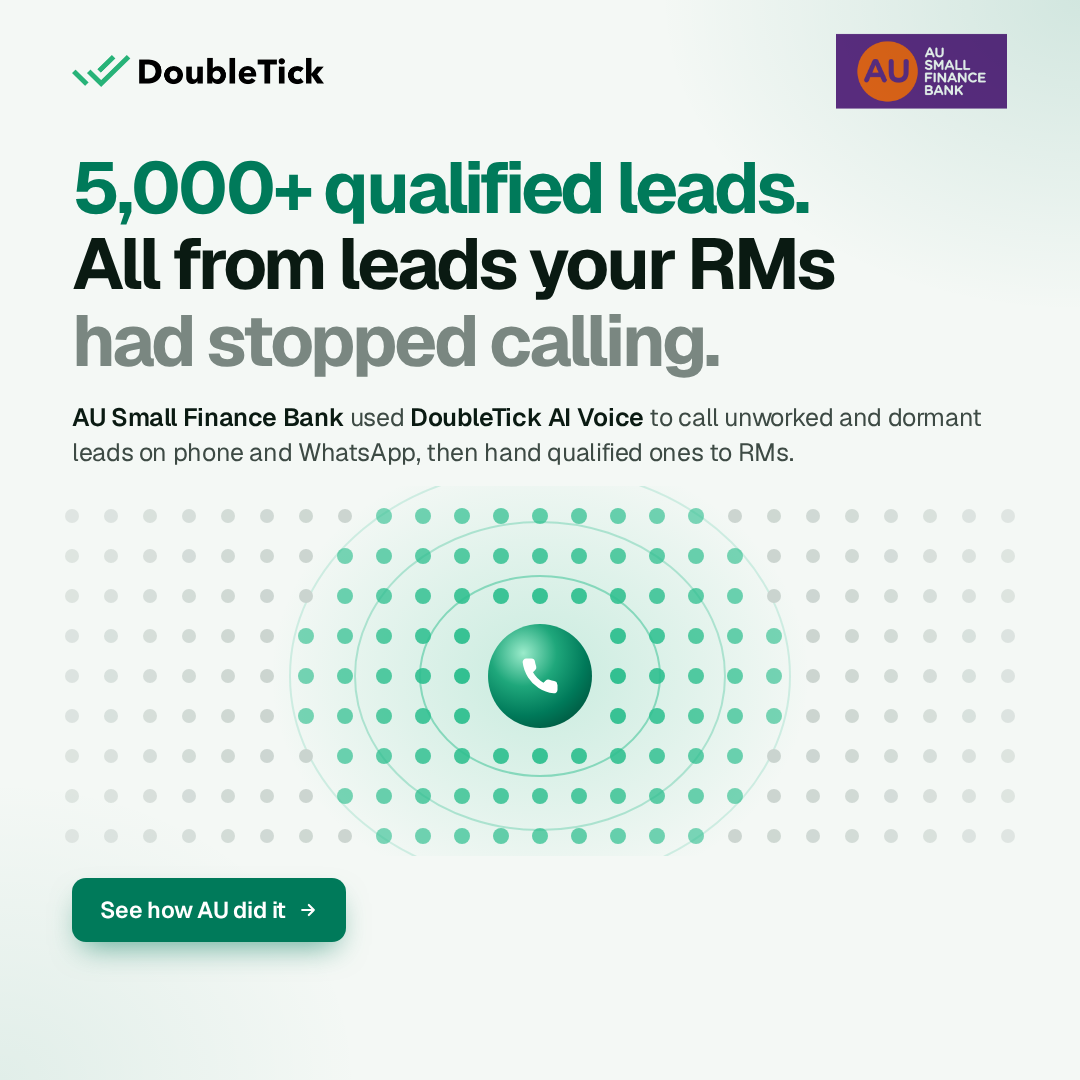
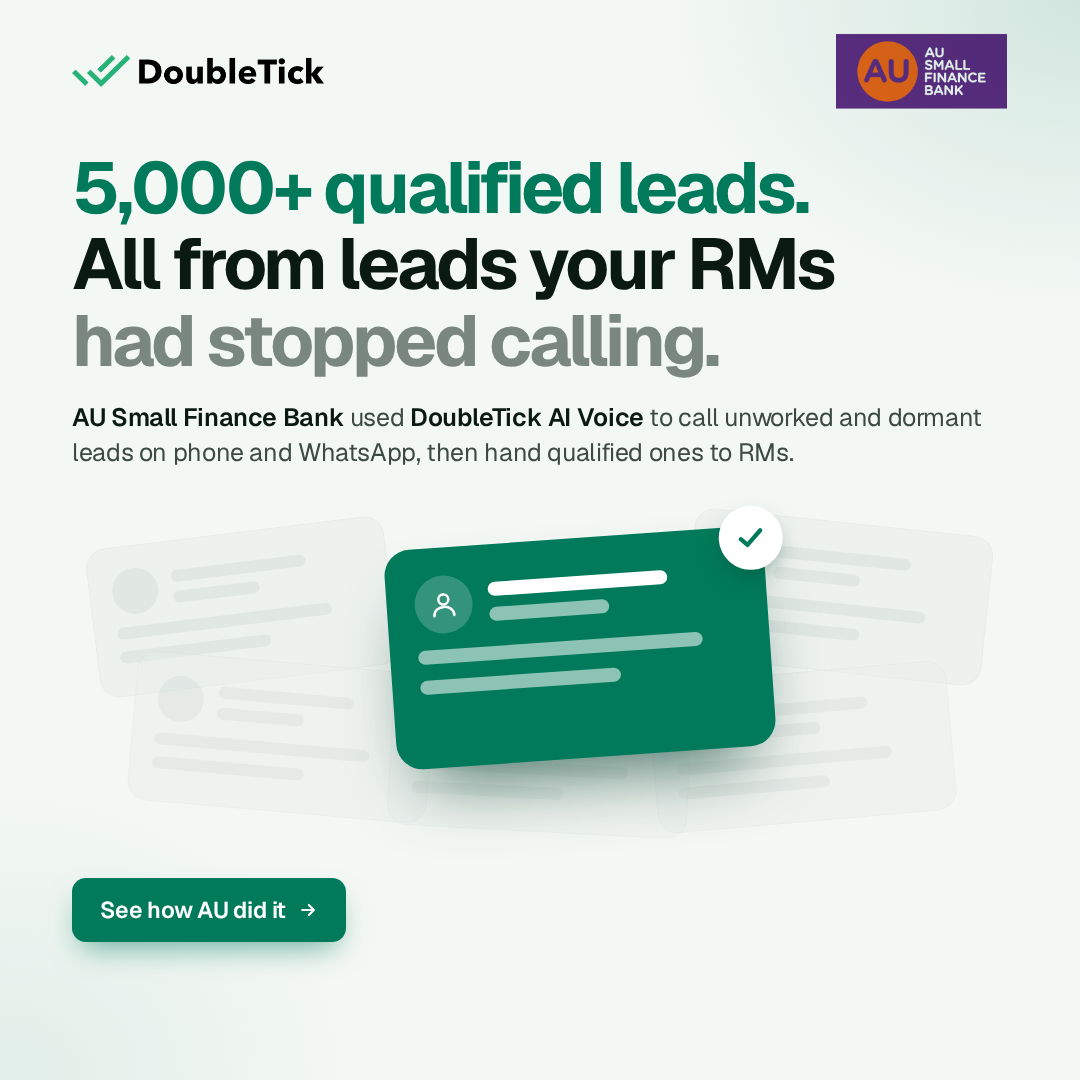
feat: lifted-card abstract visual for AU ad
Claude-Session: https://claude.ai/code/session_013Hi5o4KgvuLbKTeGkStAKX

diff --git a/ads/doubletick-case-au-v6/index.html b/ads/doubletick-case-au-v6/index.html
@@ -20,9 +20,19 @@
   .sub { left: 72px; right: 72px; top: 400px; font-size: 25px; line-height: 1.38; color: var(--ink-2); letter-spacing: -0.015em; }
   .sub b { color: var(--ink); font-weight: 600; }
 
-  /* visual: abstract sonar — AI Voice reaches dormant leads, the ones it reaches light up */
-  .vis { left: 0; top: 486px; width: 1080px; height: 370px; }
-  .vis svg { width: 1080px; height: 370px; display: block; }
+  /* visual: archive of written-off lead cards, one lifted out and turned green */
+  .vis { left: 72px; top: 492px; width: 936px; height: 360px; }
+  .vis > * { position: absolute; }
+  .gc { width: 300px; height: 150px; border-radius: 20px; background: #E9EEEB; border: 1px solid #DCE3DF; padding: 22px; display: flex; flex-direction: column; gap: 12px; }
+  .gc i { display: block; height: 12px; border-radius: 6px; background: #D3DBD7; }
+  .gc .a { width: 46px; height: 46px; border-radius: 50%; background: #D3DBD7; }
+  .hero { left: 318px; top: 46px; width: 380px; height: 220px; border-radius: 26px; background: var(--green); padding: 28px; display: flex; flex-direction: column; gap: 16px;
+    transform: rotate(-4deg); box-shadow: 0 40px 70px -30px rgba(0,60,43,.75); }
+  .hero .r { display: flex; align-items: center; gap: 16px; }
+  .hero .a { width: 58px; height: 58px; border-radius: 50%; background: rgba(255,255,255,.2); display: grid; place-items: center; }
+  .hero i { display: block; height: 14px; border-radius: 7px; background: rgba(255,255,255,.55); }
+  .hero .ok { position: absolute; right: -20px; top: -20px; width: 64px; height: 64px; border-radius: 50%; background: #fff; display: grid; place-items: center;
+    box-shadow: 0 10px 24px -8px rgba(0,60,43,.5); }
   .cta { left: 72px; top: 878px; display: flex; align-items: center; gap: 18px; }
   .btn { background: var(--green); color: #fff; font-size: 23px; font-weight: 600; letter-spacing: -0.01em; padding: 17px 28px; border-radius: 14px;
     display: flex; align-items: center; gap: 12px; box-shadow: 0 14px 30px -10px rgba(0,122,90,.6); }
@@ -35,17 +45,12 @@
   <p class="sub"><b>AU Small Finance Bank</b> used <b>DoubleTick AI Voice</b> to call unworked and dormant leads on phone and WhatsApp, then hand qualified ones to RMs.</p>
 
   <div class="vis">
-    <svg viewBox="0 0 1080 370">
-      <defs>
-        <radialGradient id="og" cx="34%" cy="28%" r="80%"><stop offset="0" stop-color="#9BEBCB"/><stop offset=".4" stop-color="#1FA77B"/><stop offset=".75" stop-color="#007A5A"/><stop offset="1" stop-color="#005A42"/></radialGradient>
-        <radialGradient id="hl"><stop offset="0" stop-color="#2FBF8F" stop-opacity=".22"/><stop offset="1" stop-color="#2FBF8F" stop-opacity="0"/></radialGradient>
-      </defs>
-      <ellipse cx="540" cy="190" rx="270" ry="225" fill="url(#hl)"/>
-      <ellipse cx="540" cy="190" rx="120" ry="100" fill="none" stroke="#2FBF8F" stroke-width="2" opacity="0.5"/><ellipse cx="540" cy="190" rx="185" ry="154" fill="none" stroke="#2FBF8F" stroke-width="2" opacity="0.32"/><ellipse cx="540" cy="190" rx="250" ry="208" fill="none" stroke="#2FBF8F" stroke-width="2" opacity="0.18"/>
-      <circle cx="72" cy="30" r="7" fill="#C9D3CE" opacity="0.49"/><circle cx="111" cy="30" r="7" fill="#C9D3CE" opacity="0.56"/><circle cx="150" cy="30" r="7" fill="#C9D3CE" opacity="0.63"/><circle cx="189" cy="30" r="7" fill="#C9D3CE" opacity="0.70"/><circle cx="228" cy="30" r="7" fill="#C9D3CE" opacity="0.77"/><circle cx="267" cy="30" r="7" fill="#C9D3CE" opacity="0.83"/><circle cx="306" cy="30" r="7" fill="#C9D3CE" opacity="0.89"/><circle cx="345" cy="30" r="7" fill="#C9D3CE" opacity="0.95"/><circle cx="384" cy="30" r="8" fill="#2FBF8F" opacity="0.62"/><circle cx="423" cy="30" r="8" fill="#2FBF8F" opacity="0.67"/><circle cx="462" cy="30" r="8" fill="#2FBF8F" opacity="0.71"/><circle cx="501" cy="30" r="8" fill="#2FBF8F" opacity="0.73"/><circle cx="540" cy="30" r="8" fill="#2FBF8F" opacity="0.74"/><circle cx="579" cy="30" r="8" fill="#2FBF8F" opacity="0.73"/><circle cx="618" cy="30" r="8" fill="#2FBF8F" opacity="0.71"/><circle cx="657" cy="30" r="8" fill="#2FBF8F" opacity="0.67"/><circle cx="696" cy="30" r="8" fill="#2FBF8F" opacity="0.62"/><circle cx="735" cy="30" r="7" fill="#C9D3CE" opacity="0.95"/><circle cx="774" cy="30" r="7" fill="#C9D3CE" opacity="0.89"/><circle cx="813" cy="30" r="7" fill="#C9D3CE" opacity="0.83"/><circle cx="852" cy="30" r="7" fill="#C9D3CE" opacity="0.77"/><circle cx="891" cy="30" r="7" fill="#C9D3CE" opacity="0.70"/><circle cx="930" cy="30" r="7" fill="#C9D3CE" opacity="0.63"/><circle cx="969" cy="30" r="7" fill="#C9D3CE" opacity="0.56"/><circle cx="1008" cy="30" r="7" fill="#C9D3CE" opacity="0.49"/><circle cx="72" cy="70" r="7" fill="#C9D3CE" opacity="0.52"/><circle cx="111" cy="70" r="7" fill="#C9D3CE" opacity="0.59"/><circle cx="150" cy="70" r="7" fill="#C9D3CE" opacity="0.67"/><circle cx="189" cy="70" r="7" fill="#C9D3CE" opacity="0.74"/><circle cx="228" cy="70" r="7" fill="#C9D3CE" opacity="0.81"/><circle cx="267" cy="70" r="7" fill="#C9D3CE" opacity="0.88"/><circle cx="306" cy="70" r="7" fill="#C9D3CE" opacity="0.95"/><circle cx="345" cy="70" r="8" fill="#2FBF8F" opacity="0.64"/><circle cx="384" cy="70" r="8" fill="#2FBF8F" opacity="0.70"/><circle cx="423" cy="70" r="8" fill="#2FBF8F" opacity="0.76"/><circle cx="462" cy="70" r="8" fill="#2FBF8F" opacity="0.80"/><circle cx="501" cy="70" r="8" fill="#2FBF8F" opacity="0.83"/><circle cx="540" cy="70" r="8" fill="#2FBF8F" opacity="0.84"/><circle cx="579" cy="70" r="8" fill="#2FBF8F" opacity="0.83"/><circle cx="618" cy="70" r="8" fill="#2FBF8F" opacity="0.80"/><circle cx="657" cy="70" r="8" fill="#2FBF8F" opacity="0.76"/><circle cx="696" cy="70" r="8" fill="#2FBF8F" opacity="0.70"/><circle cx="735" cy="70" r="8" fill="#2FBF8F" opacity="0.64"/><circle cx="774" cy="70" r="7" fill="#C9D3CE" opacity="0.95"/><circle cx="813" cy="70" r="7" fill="#C9D3CE" opacity="0.88"/><circle cx="852" cy="70" r="7" fill="#C9D3CE" opacity="0.81"/><circle cx="891" cy="70" r="7" fill="#C9D3CE" opacity="0.74"/><circle cx="930" cy="70" r="7" fill="#C9D3CE" opacity="0.67"/><circle cx="969" cy="70" r="7" fill="#C9D3CE" opacity="0.59"/><circle cx="1008" cy="70" r="7" fill="#C9D3CE" opacity="0.52"/><circle cx="72" cy="110" r="7" fill="#C9D3CE" opacity="0.54"/><circle cx="111" cy="110" r="7" fill="#C9D3CE" opacity="0.62"/><circle cx="150" cy="110" r="7" fill="#C9D3CE" opacity="0.70"/><circle cx="189" cy="110" r="7" fill="#C9D3CE" opacity="0.77"/><circle cx="228" cy="110" r="7" fill="#C9D3CE" opacity="0.85"/><circle cx="267" cy="110" r="7" fill="#C9D3CE" opacity="0.92"/><circle cx="306" cy="110" r="7" fill="#C9D3CE" opacity="0.99"/><circle cx="345" cy="110" r="8" fill="#2FBF8F" opacity="0.69"/><circle cx="384" cy="110" r="8" fill="#2FBF8F" opacity="0.76"/><circle cx="423" cy="110" r="8" fill="#2FBF8F" opacity="0.83"/><circle cx="462" cy="110" r="8" fill="#2FBF8F" opacity="0.89"/><circle cx="501" cy="110" r="8" fill="#2FBF8F" opacity="0.93"/><circle cx="540" cy="110" r="8" fill="#2FBF8F" opacity="0.95"/><circle cx="579" cy="110" r="8" fill="#2FBF8F" opacity="0.93"/><circle cx="618" cy="110" r="8" fill="#2FBF8F" opacity="0.89"/><circle cx="657" cy="110" r="8" fill="#2FBF8F" opacity="0.83"/><circle cx="696" cy="110" r="8" fill="#2FBF8F" opacity="0.76"/><circle cx="735" cy="110" r="8" fill="#2FBF8F" opacity="0.69"/><circle cx="774" cy="110" r="7" fill="#C9D3CE" opacity="0.99"/><circle cx="813" cy="110" r="7" fill="#C9D3CE" opacity="0.92"/><circle cx="852" cy="110" r="7" fill="#C9D3CE" opacity="0.85"/><circle cx="891" cy="110" r="7" fill="#C9D3CE" opacity="0.77"/><circle cx="930" cy="110" r="7" fill="#C9D3CE" opacity="0.70"/><circle cx="969" cy="110" r="7" fill="#C9D3CE" opacity="0.62"/><circle cx="1008" cy="110" r="7" fill="#C9D3CE" opacity="0.54"/><circle cx="72" cy="150" r="7" fill="#C9D3CE" opacity="0.56"/><circle cx="111" cy="150" r="7" fill="#C9D3CE" opacity="0.64"/><circle cx="150" cy="150" r="7" fill="#C9D3CE" opacity="0.71"/><circle cx="189" cy="150" r="7" fill="#C9D3CE" opacity="0.79"/><circle cx="228" cy="150" r="7" fill="#C9D3CE" opacity="0.87"/><circle cx="267" cy="150" r="7" fill="#C9D3CE" opacity="0.95"/><circle cx="306" cy="150" r="8" fill="#2FBF8F" opacity="0.64"/><circle cx="345" cy="150" r="8" fill="#2FBF8F" opacity="0.72"/><circle cx="384" cy="150" r="8" fill="#2FBF8F" opacity="0.80"/><circle cx="423" cy="150" r="8" fill="#2FBF8F" opacity="0.88"/><circle cx="462" cy="150" r="8" fill="#2FBF8F" opacity="0.95"/><circle cx="618" cy="150" r="8" fill="#2FBF8F" opacity="0.95"/><circle cx="657" cy="150" r="8" fill="#2FBF8F" opacity="0.88"/><circle cx="696" cy="150" r="8" fill="#2FBF8F" opacity="0.80"/><circle cx="735" cy="150" r="8" fill="#2FBF8F" opacity="0.72"/><circle cx="774" cy="150" r="8" fill="#2FBF8F" opacity="0.64"/><circle cx="813" cy="150" r="7" fill="#C9D3CE" opacity="0.95"/><circle cx="852" cy="150" r="7" fill="#C9D3CE" opacity="0.87"/><circle cx="891" cy="150" r="7" fill="#C9D3CE" opacity="0.79"/><circle cx="930" cy="150" r="7" fill="#C9D3CE" opacity="0.71"/><circle cx="969" cy="150" r="7" fill="#C9D3CE" opacity="0.64"/><circle cx="1008" cy="150" r="7" fill="#C9D3CE" opacity="0.56"/><circle cx="72" cy="190" r="7" fill="#C9D3CE" opacity="0.56"/><circle cx="111" cy="190" r="7" fill="#C9D3CE" opacity="0.64"/><circle cx="150" cy="190" r="7" fill="#C9D3CE" opacity="0.72"/><circle cx="189" cy="190" r="7" fill="#C9D3CE" opacity="0.80"/><circle cx="228" cy="190" r="7" fill="#C9D3CE" opacity="0.88"/><circle cx="267" cy="190" r="7" fill="#C9D3CE" opacity="0.95"/><circle cx="306" cy="190" r="8" fill="#2FBF8F" opacity="0.65"/><circle cx="345" cy="190" r="8" fill="#2FBF8F" opacity="0.74"/><circle cx="384" cy="190" r="8" fill="#2FBF8F" opacity="0.82"/><circle cx="423" cy="190" r="8" fill="#2FBF8F" opacity="0.90"/><circle cx="462" cy="190" r="8" fill="#2FBF8F" opacity="0.98"/><circle cx="618" cy="190" r="8" fill="#2FBF8F" opacity="0.98"/><circle cx="657" cy="190" r="8" fill="#2FBF8F" opacity="0.90"/><circle cx="696" cy="190" r="8" fill="#2FBF8F" opacity="0.82"/><circle cx="735" cy="190" r="8" fill="#2FBF8F" opacity="0.74"/><circle cx="774" cy="190" r="8" fill="#2FBF8F" opacity="0.65"/><circle cx="813" cy="190" r="7" fill="#C9D3CE" opacity="0.95"/><circle cx="852" cy="190" r="7" fill="#C9D3CE" opacity="0.88"/><circle cx="891" cy="190" r="7" fill="#C9D3CE" opacity="0.80"/><circle cx="930" cy="190" r="7" fill="#C9D3CE" opacity="0.72"/><circle cx="969" cy="190" r="7" fill="#C9D3CE" opacity="0.64"/><circle cx="1008" cy="190" r="7" fill="#C9D3CE" opacity="0.56"/><circle cx="72" cy="230" r="7" fill="#C9D3CE" opacity="0.56"/><circle cx="111" cy="230" r="7" fill="#C9D3CE" opacity="0.64"/><circle cx="150" cy="230" r="7" fill="#C9D3CE" opacity="0.71"/><circle cx="189" cy="230" r="7" fill="#C9D3CE" opacity="0.79"/><circle cx="228" cy="230" r="7" fill="#C9D3CE" opacity="0.87"/><circle cx="267" cy="230" r="7" fill="#C9D3CE" opacity="0.95"/><circle cx="306" cy="230" r="8" fill="#2FBF8F" opacity="0.64"/><circle cx="345" cy="230" r="8" fill="#2FBF8F" opacity="0.72"/><circle cx="384" cy="230" r="8" fill="#2FBF8F" opacity="0.80"/><circle cx="423" cy="230" r="8" fill="#2FBF8F" opacity="0.88"/><circle cx="462" cy="230" r="8" fill="#2FBF8F" opacity="0.95"/><circle cx="618" cy="230" r="8" fill="#2FBF8F" opacity="0.95"/><circle cx="657" cy="230" r="8" fill="#2FBF8F" opacity="0.88"/><circle cx="696" cy="230" r="8" fill="#2FBF8F" opacity="0.80"/><circle cx="735" cy="230" r="8" fill="#2FBF8F" opacity="0.72"/><circle cx="774" cy="230" r="8" fill="#2FBF8F" opacity="0.64"/><circle cx="813" cy="230" r="7" fill="#C9D3CE" opacity="0.95"/><circle cx="852" cy="230" r="7" fill="#C9D3CE" opacity="0.87"/><circle cx="891" cy="230" r="7" fill="#C9D3CE" opacity="0.79"/><circle cx="930" cy="230" r="7" fill="#C9D3CE" opacity="0.71"/><circle cx="969" cy="230" r="7" fill="#C9D3CE" opacity="0.64"/><circle cx="1008" cy="230" r="7" fill="#C9D3CE" opacity="0.56"/><circle cx="72" cy="270" r="7" fill="#C9D3CE" opacity="0.54"/><circle cx="111" cy="270" r="7" fill="#C9D3CE" opacity="0.62"/><circle cx="150" cy="270" r="7" fill="#C9D3CE" opacity="0.70"/><circle cx="189" cy="270" r="7" fill="#C9D3CE" opacity="0.77"/><circle cx="228" cy="270" r="7" fill="#C9D3CE" opacity="0.85"/><circle cx="267" cy="270" r="7" fill="#C9D3CE" opacity="0.92"/><circle cx="306" cy="270" r="7" fill="#C9D3CE" opacity="0.99"/><circle cx="345" cy="270" r="8" fill="#2FBF8F" opacity="0.69"/><circle cx="384" cy="270" r="8" fill="#2FBF8F" opacity="0.76"/><circle cx="423" cy="270" r="8" fill="#2FBF8F" opacity="0.83"/><circle cx="462" cy="270" r="8" fill="#2FBF8F" opacity="0.89"/><circle cx="501" cy="270" r="8" fill="#2FBF8F" opacity="0.93"/><circle cx="540" cy="270" r="8" fill="#2FBF8F" opacity="0.95"/><circle cx="579" cy="270" r="8" fill="#2FBF8F" opacity="0.93"/><circle cx="618" cy="270" r="8" fill="#2FBF8F" opacity="0.89"/><circle cx="657" cy="270" r="8" fill="#2FBF8F" opacity="0.83"/><circle cx="696" cy="270" r="8" fill="#2FBF8F" opacity="0.76"/><circle cx="735" cy="270" r="8" fill="#2FBF8F" opacity="0.69"/><circle cx="774" cy="270" r="7" fill="#C9D3CE" opacity="0.99"/><circle cx="813" cy="270" r="7" fill="#C9D3CE" opacity="0.92"/><circle cx="852" cy="270" r="7" fill="#C9D3CE" opacity="0.85"/><circle cx="891" cy="270" r="7" fill="#C9D3CE" opacity="0.77"/><circle cx="930" cy="270" r="7" fill="#C9D3CE" opacity="0.70"/><circle cx="969" cy="270" r="7" fill="#C9D3CE" opacity="0.62"/><circle cx="1008" cy="270" r="7" fill="#C9D3CE" opacity="0.54"/><circle cx="72" cy="310" r="7" fill="#C9D3CE" opacity="0.52"/><circle cx="111" cy="310" r="7" fill="#C9D3CE" opacity="0.59"/><circle cx="150" cy="310" r="7" fill="#C9D3CE" opacity="0.67"/><circle cx="189" cy="310" r="7" fill="#C9D3CE" opacity="0.74"/><circle cx="228" cy="310" r="7" fill="#C9D3CE" opacity="0.81"/><circle cx="267" cy="310" r="7" fill="#C9D3CE" opacity="0.88"/><circle cx="306" cy="310" r="7" fill="#C9D3CE" opacity="0.95"/><circle cx="345" cy="310" r="8" fill="#2FBF8F" opacity="0.64"/><circle cx="384" cy="310" r="8" fill="#2FBF8F" opacity="0.70"/><circle cx="423" cy="310" r="8" fill="#2FBF8F" opacity="0.76"/><circle cx="462" cy="310" r="8" fill="#2FBF8F" opacity="0.80"/><circle cx="501" cy="310" r="8" fill="#2FBF8F" opacity="0.83"/><circle cx="540" cy="310" r="8" fill="#2FBF8F" opacity="0.84"/><circle cx="579" cy="310" r="8" fill="#2FBF8F" opacity="0.83"/><circle cx="618" cy="310" r="8" fill="#2FBF8F" opacity="0.80"/><circle cx="657" cy="310" r="8" fill="#2FBF8F" opacity="0.76"/><circle cx="696" cy="310" r="8" fill="#2FBF8F" opacity="0.70"/><circle cx="735" cy="310" r="8" fill="#2FBF8F" opacity="0.64"/><circle cx="774" cy="310" r="7" fill="#C9D3CE" opacity="0.95"/><circle cx="813" cy="310" r="7" fill="#C9D3CE" opacity="0.88"/><circle cx="852" cy="310" r="7" fill="#C9D3CE" opacity="0.81"/><circle cx="891" cy="310" r="7" fill="#C9D3CE" opacity="0.74"/><circle cx="930" cy="310" r="7" fill="#C9D3CE" opacity="0.67"/><circle cx="969" cy="310" r="7" fill="#C9D3CE" opacity="0.59"/><circle cx="1008" cy="310" r="7" fill="#C9D3CE" opacity="0.52"/><circle cx="72" cy="350" r="7" fill="#C9D3CE" opacity="0.49"/><circle cx="111" cy="350" r="7" fill="#C9D3CE" opacity="0.56"/><circle cx="150" cy="350" r="7" fill="#C9D3CE" opacity="0.63"/><circle cx="189" cy="350" r="7" fill="#C9D3CE" opacity="0.70"/><circle cx="228" cy="350" r="7" fill="#C9D3CE" opacity="0.77"/><circle cx="267" cy="350" r="7" fill="#C9D3CE" opacity="0.83"/><circle cx="306" cy="350" r="7" fill="#C9D3CE" opacity="0.89"/><circle cx="345" cy="350" r="7" fill="#C9D3CE" opacity="0.95"/><circle cx="384" cy="350" r="8" fill="#2FBF8F" opacity="0.62"/><circle cx="423" cy="350" r="8" fill="#2FBF8F" opacity="0.67"/><circle cx="462" cy="350" r="8" fill="#2FBF8F" opacity="0.71"/><circle cx="501" cy="350" r="8" fill="#2FBF8F" opacity="0.73"/><circle cx="540" cy="350" r="8" fill="#2FBF8F" opacity="0.74"/><circle cx="579" cy="350" r="8" fill="#2FBF8F" opacity="0.73"/><circle cx="618" cy="350" r="8" fill="#2FBF8F" opacity="0.71"/><circle cx="657" cy="350" r="8" fill="#2FBF8F" opacity="0.67"/><circle cx="696" cy="350" r="8" fill="#2FBF8F" opacity="0.62"/><circle cx="735" cy="350" r="7" fill="#C9D3CE" opacity="0.95"/><circle cx="774" cy="350" r="7" fill="#C9D3CE" opacity="0.89"/><circle cx="813" cy="350" r="7" fill="#C9D3CE" opacity="0.83"/><circle cx="852" cy="350" r="7" fill="#C9D3CE" opacity="0.77"/><circle cx="891" cy="350" r="7" fill="#C9D3CE" opacity="0.70"/><circle cx="930" cy="350" r="7" fill="#C9D3CE" opacity="0.63"/><circle cx="969" cy="350" r="7" fill="#C9D3CE" opacity="0.56"/><circle cx="1008" cy="350" r="7" fill="#C9D3CE" opacity="0.49"/>
-      <circle cx="540" cy="190" r="52" fill="url(#og)"/>
-      <path transform="translate(519 169) scale(1.75)" d="M22 16.9v3a2 2 0 0 1-2.2 2 19.8 19.8 0 0 1-8.6-3.1 19.5 19.5 0 0 1-6-6A19.8 19.8 0 0 1 2.1 4.2 2 2 0 0 1 4.1 2h3a2 2 0 0 1 2 1.7c.1.9.4 1.8.7 2.7a2 2 0 0 1-.5 2.1L8 9.8a16 16 0 0 0 6 6l1.3-1.3a2 2 0 0 1 2.1-.4c.9.3 1.8.6 2.7.7a2 2 0 0 1 1.7 2z" fill="#fff"/>
-    </svg>
+    <div class="gc" style="left:20px;top:40px;transform:rotate(-7deg);opacity:0.55"><div style="display:flex;gap:14px;align-items:center"><span class="a"></span><div style="flex:1;display:flex;flex-direction:column;gap:9px"><i style="width:70%"></i><i style="width:45%"></i></div></div><i style="width:85%"></i><i style="width:60%"></i></div><div class="gc" style="left:60px;top:170px;transform:rotate(5deg);opacity:0.45"><div style="display:flex;gap:14px;align-items:center"><span class="a"></span><div style="flex:1;display:flex;flex-direction:column;gap:9px"><i style="width:70%"></i><i style="width:45%"></i></div></div><i style="width:85%"></i><i style="width:60%"></i></div><div class="gc" style="left:616px;top:30px;transform:rotate(6deg);opacity:0.55"><div style="display:flex;gap:14px;align-items:center"><span class="a"></span><div style="flex:1;display:flex;flex-direction:column;gap:9px"><i style="width:70%"></i><i style="width:45%"></i></div></div><i style="width:85%"></i><i style="width:60%"></i></div><div class="gc" style="left:580px;top:180px;transform:rotate(-5deg);opacity:0.45"><div style="display:flex;gap:14px;align-items:center"><span class="a"></span><div style="flex:1;display:flex;flex-direction:column;gap:9px"><i style="width:70%"></i><i style="width:45%"></i></div></div><i style="width:85%"></i><i style="width:60%"></i></div><div class="gc" style="left:318px;top:190px;transform:rotate(3deg);opacity:0.35"><div style="display:flex;gap:14px;align-items:center"><span class="a"></span><div style="flex:1;display:flex;flex-direction:column;gap:9px"><i style="width:70%"></i><i style="width:45%"></i></div></div><i style="width:85%"></i><i style="width:60%"></i></div>
+    <div class="hero">
+      <div class="r"><span class="a"><svg width="30" height="30" viewBox="0 0 24 24" fill="none" stroke="#fff" stroke-width="2" stroke-linecap="round"><circle cx="12" cy="8" r="4"/><path d="M4 21c0-4.4 3.6-7 8-7s8 2.6 8 7"/></svg></span><div style="flex:1;display:flex;flex-direction:column;gap:11px"><i style="width:72%;background:#fff"></i><i style="width:48%"></i></div></div>
+      <i style="width:88%"></i><i style="width:62%"></i>
+      <span class="ok"><svg width="30" height="30" viewBox="0 0 24 24" fill="none" stroke="#007A5A" stroke-width="3.4" stroke-linecap="round" stroke-linejoin="round"><path d="M4 12.5l5 5L20 6.5"/></svg></span>
+    </div>
   </div>
 
   <div class="cta"><div class="btn">See how AU did it
